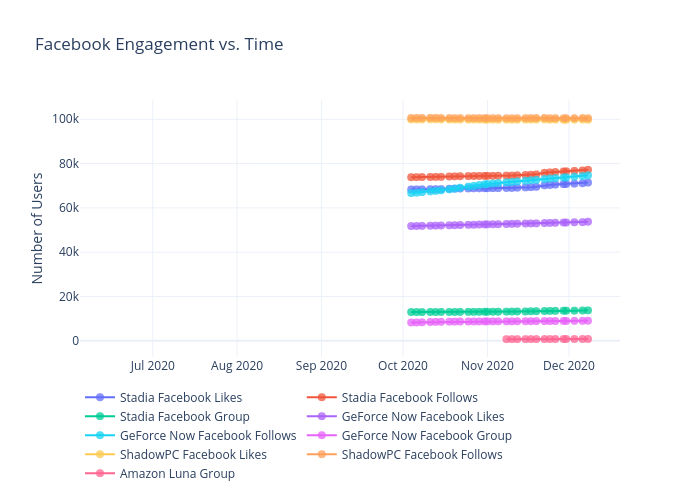
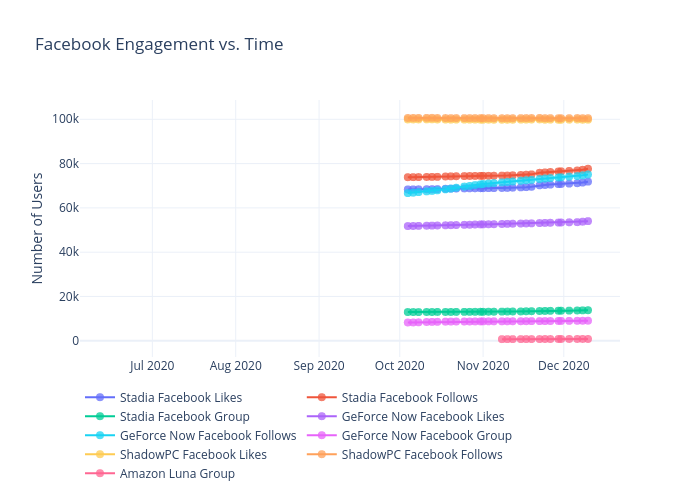
Add files via upload
Thursday Data

diff --git a/facebook/figure.js b/facebook/figure.js
@@ -89,7 +89,8 @@ var figure = {
                 "70793",
                 "70958",
                 "71140",
-                "71426"
+                "71426",
+                "71851"
             ],
             "marker": {
                 "size": 8,
@@ -188,7 +189,8 @@ var figure = {
                 "76503",
                 "76686",
                 "76884",
-                "77191"
+                "77191",
+                "77660"
             ],
             "marker": {
                 "size": 8,
@@ -287,7 +289,8 @@ var figure = {
                 "13584",
                 "13616",
                 "13684",
-                "13740"
+                "13740",
+                "13801"
             ],
             "marker": {
                 "size": 8,
@@ -386,7 +389,8 @@ var figure = {
                 "53398",
                 "53493",
                 "53562",
-                "53771"
+                "53771",
+                "54021"
             ],
             "marker": {
                 "size": 8,
@@ -485,7 +489,8 @@ var figure = {
                 "73803",
                 "74120",
                 "74355",
-                "74700"
+                "74700",
+                "75075"
             ],
             "marker": {
                 "size": 8,
@@ -584,7 +589,8 @@ var figure = {
                 "8964",
                 "8986",
                 "9024",
-                "9055"
+                "9055",
+                "9079"
             ],
             "marker": {
                 "size": 8,
@@ -683,7 +689,8 @@ var figure = {
                 "99796",
                 "99832",
                 "99878",
-                "99808"
+                "99808",
+                "99827"
             ],
             "marker": {
                 "size": 8,
@@ -782,7 +789,8 @@ var figure = {
                 "100472",
                 "100510",
                 "100556",
-                "100486"
+                "100486",
+                "100501"
             ],
             "marker": {
                 "size": 8,
@@ -881,7 +889,8 @@ var figure = {
                 "805",
                 "813",
                 "819",
-                "818"
+                "818",
+                "820"
             ],
             "marker": {
                 "size": 8,
@@ -899,8 +908,8 @@ var figure = {
         "xaxis": {
             "type": "date",
             "range": [
-                "2020-06-05 00:47:39.3522",
-                "2020-12-18 23:12:20.6478"
+                "2020-06-04 21:47:10.3162",
+                "2020-12-21 02:12:49.6838"
             ],
             "title": {
                 "text": ""
@@ -910,8 +919,8 @@ var figure = {
         "yaxis": {
             "type": "linear",
             "range": [
-                -11173.513761467892,
-                112564.5137614679
+                -23559.702702702703,
+                124950.7027027027
             ],
             "title": {
                 "text": "Number of Users"
